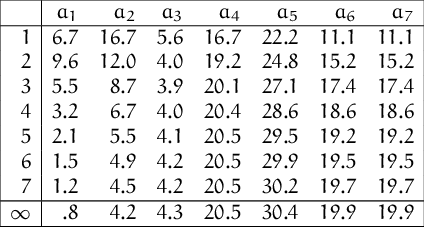
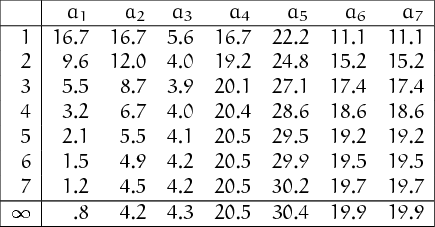
fixed typo

diff --git a/images/hubs-a.tex b/images/hubs-a.tex
@@ -8,7 +8,7 @@ $%\scriptsize
 \begin{array}{|r|rrrrrrr|} \hline
 & a_1 & a_2 & a_3 & a_4 & a_5 & a_6 & a_7 \\
 \hline
- 1 & 6.7 &16.7 & 5.6 & 16.7 & 22.2 & 11.1 & 11.1 \\
+ 1 &16.7 &16.7 & 5.6 & 16.7 & 22.2 & 11.1 & 11.1 \\
  2 & 9.6 &12.0 & 4.0 & 19.2 & 24.8 & 15.2 & 15.2 \\
  3 & 5.5 & 8.7 & 3.9 & 20.1 & 27.1 & 17.4 & 17.4 \\
  4 & 3.2 & 6.7 & 4.0 & 20.4 & 28.6 & 18.6 & 18.6 \\
